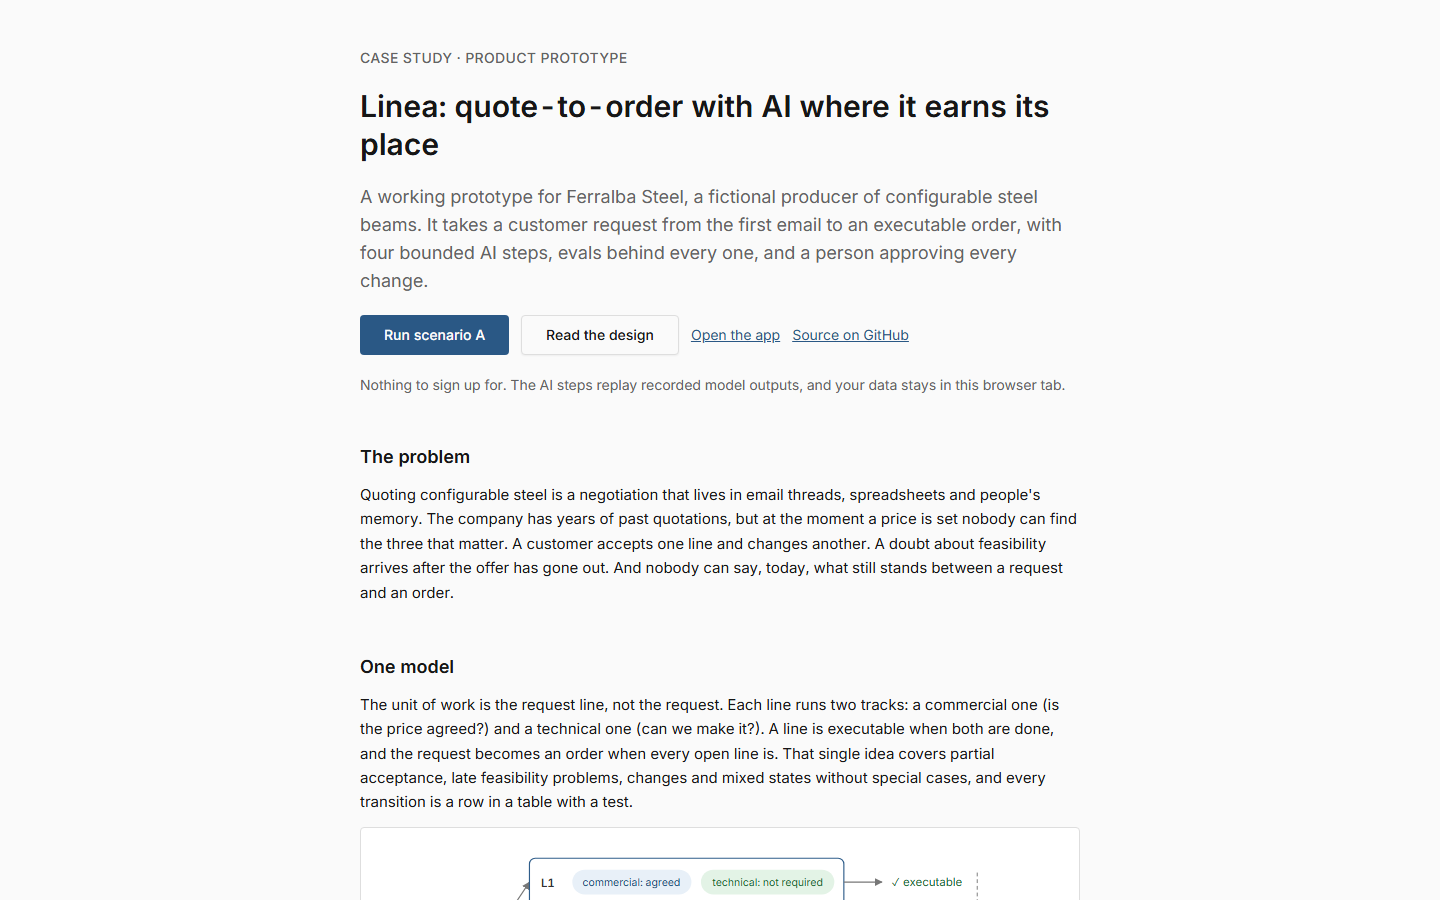
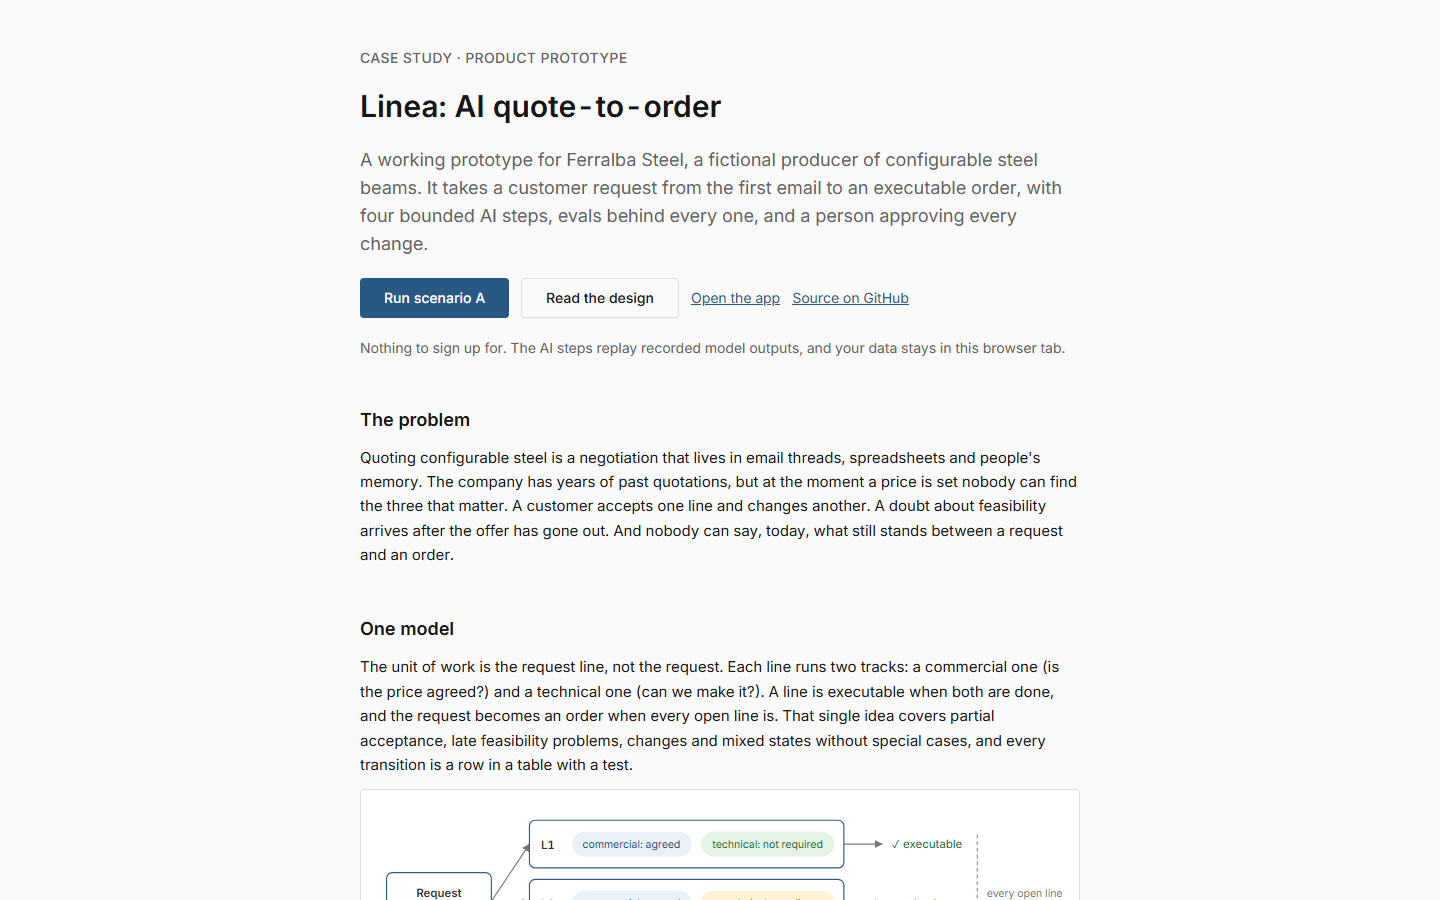
docs: the title is Linea: AI quote-to-order

Changed region(s): [[0.25, 0.0933, 0.75, 1.0], [0.625, 0.9333, 0.7188, 1.0]]

diff --git a/index.html b/index.html
@@ -10,18 +10,18 @@
       href="https://fonts.googleapis.com/css2?family=Inter:wght@400;500;600&display=swap"
       rel="stylesheet"
     />
-    <title>Linea</title>
+    <title>Linea: AI quote-to-order</title>
     <meta name="description" content="A working prototype: from a customer's first email to an executable order, with four bounded AI steps, evals behind every one, and a person approving every change. Live demo, no sign-up." />
     <meta property="og:type" content="website" />
     <meta property="og:url" content="https://linea-quote-to-order.netlify.app/" />
-    <meta property="og:title" content="Linea: quote-to-order with AI where it earns its place" />
+    <meta property="og:title" content="Linea: AI quote-to-order" />
     <meta property="og:description" content="A working prototype: from a customer's first email to an executable order, with four bounded AI steps, evals behind every one, and a person approving every change. Live demo, no sign-up." />
     <meta property="og:image" content="https://linea-quote-to-order.netlify.app/og-image.png" />
     <meta property="og:image:width" content="1200" />
     <meta property="og:image:height" content="627" />
-    <meta property="og:image:alt" content="Linea: a request with two lines, each with a commercial and a technical track, executable when both are done" />
+    <meta property="og:image:alt" content="Linea: AI quote-to-order. A request with two lines, each with a commercial and a technical track, executable when both are done" />
     <meta name="twitter:card" content="summary_large_image" />
-    <meta name="twitter:title" content="Linea: quote-to-order with AI where it earns its place" />
+    <meta name="twitter:title" content="Linea: AI quote-to-order" />
     <meta name="twitter:description" content="A working prototype: from a customer's first email to an executable order, with four bounded AI steps, evals behind every one, and a person approving every change. Live demo, no sign-up." />
     <meta name="twitter:image" content="https://linea-quote-to-order.netlify.app/og-image.png" />
     <script>

diff --git a/scripts/og/og.html b/scripts/og/og.html
@@ -19,7 +19,8 @@
       header { padding: 52px 64px 0; }
       .name { font-size: 30px; font-weight: 600; color: #2f5d8a; letter-spacing: -0.01em; }
       .name span { color: #777; font-weight: 500; font-size: 22px; margin-left: 12px; }
-      h1 { margin-top: 10px; font-size: 46px; white-space: nowrap; line-height: 1.12; font-weight: 700; letter-spacing: -0.02em; color: #222; max-width: 1060px; }
+      h1 { margin-top: 6px; font-size: 56px; white-space: nowrap; line-height: 1.12; font-weight: 700; letter-spacing: -0.02em; color: #222; max-width: 1060px; }
+      .sub { margin-top: 8px; font-size: 26px; color: #555; font-weight: 500; }
       .diagram { flex: 1; display: flex; align-items: center; padding: 0 60px; }
       .strip {
         display: flex; justify-content: space-between; align-items: center;
@@ -32,7 +33,8 @@
   <body>
     <header>
       <div class="name">Linea<span>Ferralba Steel, a fictional producer</span></div>
-      <h1>Quote-to-order with AI where it earns its place</h1>
+      <h1>AI quote-to-order</h1>
+      <div class="sub">From a customer's first email to an executable order</div>
     </header>
 
     <div class="diagram">

diff --git a/src/routes/index.tsx b/src/routes/index.tsx
@@ -45,7 +45,7 @@ function Landing() {
       <div className="mx-auto max-w-3xl space-y-12 px-4 py-12 text-[15px] leading-relaxed sm:px-6">
         <header className="space-y-5">
           <p className="text-sm font-medium uppercase tracking-wide text-muted-foreground">Case study · product prototype</p>
-          <h1 className="text-3xl font-semibold leading-tight">Linea: quote-to-order with AI where it earns its place</h1>
+          <h1 className="text-3xl font-semibold leading-tight">Linea: AI quote-to-order</h1>
           <p className="text-lg text-muted-foreground">
             A working prototype for Ferralba Steel, a fictional producer of configurable steel beams. It takes a customer request from the first email to an executable order, with four bounded AI steps, evals behind every one, and a person approving every change.
           </p>

diff --git a/README.md b/README.md
@@ -1,6 +1,6 @@
-# Linea
+# Linea: AI quote-to-order
 
-**Quote-to-order with AI where it earns its place.** A working prototype for Ferralba Steel, a fictional producer of configurable steel beams: from a customer's first email to an executable order, with four bounded AI steps, evals behind every one, and a person approving every change.
+**From a customer's first email to an executable order.** A working prototype for Ferralba Steel, a fictional producer of configurable steel beams, with four bounded AI steps, evals behind every one, and a person approving every change.
 
 **[Open the live demo](https://linea-quote-to-order.netlify.app/)**: the case study, both scenarios in a step player, and every screen. No sign-up, no keys; the AI steps replay recorded model outputs and your data stays in your browser tab.
 
